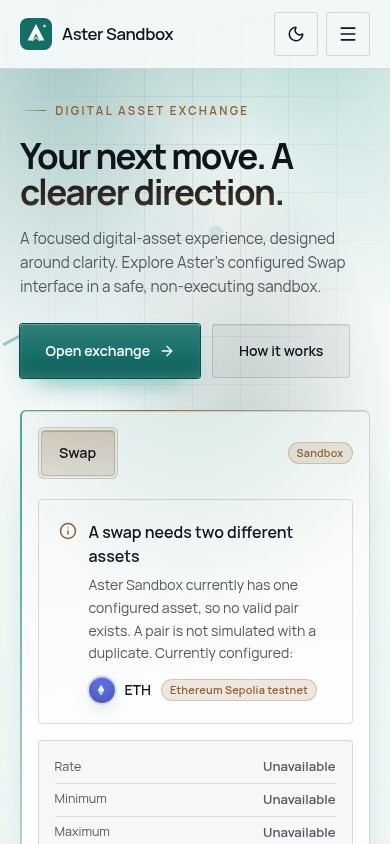
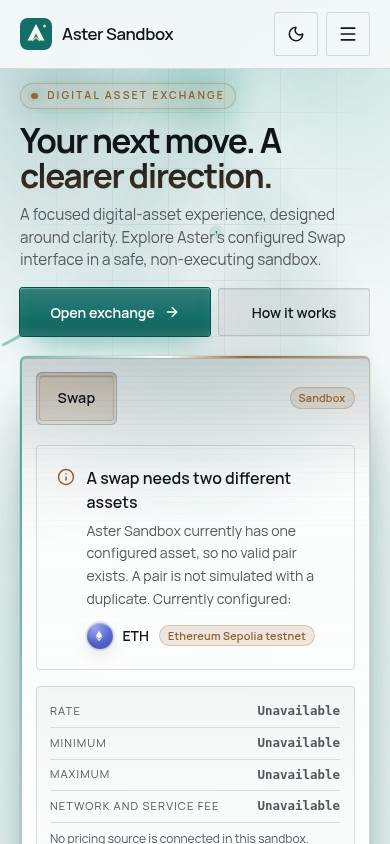
Update customer website visual assets and components
Replit-Commit-Author: Agent

Changed region(s): [[0.0, 0.0616, 1.0, 1.0]]

diff --git a/artifacts/private-label-website/src/styles/site-instrument.css b/artifacts/private-label-website/src/styles/site-instrument.css
@@ -1,0 +1,74 @@
+/* Financial-instrument layer: loaded last, refines depth, light and the widget. Opacity/transform only. */
+/* --- atmosphere: static colour fields, light travels through paths, nothing large moves --- */
+.s-orb{animation:none!important}
+.s-aurora{animation:s-breathe 16s ease-in-out infinite alternate}
+@keyframes s-breathe{from{opacity:.78}to{opacity:1}}
+.s-ambient::before,.s-ambient::after{content:"";position:absolute;top:-10%;width:34%;height:80%;pointer-events:none;background:linear-gradient(180deg,color-mix(in srgb,var(--s-glow) 22%,transparent),transparent 78%);-webkit-mask-image:linear-gradient(90deg,transparent,#000 50%,transparent);mask-image:linear-gradient(90deg,transparent,#000 50%,transparent);opacity:.55;animation:s-breathe 11s ease-in-out infinite alternate}
+.s-ambient::before{left:8%;transform:skewX(-24deg)}
+.s-ambient::after{right:6%;transform:skewX(24deg);animation-delay:-5s;opacity:.4}
+.s-grid{background-size:56px 56px;opacity:.42}
+.s-eyebrow-lit{padding:.4rem .85rem .4rem .8rem;border-radius:999px;box-shadow:inset 0 0 0 1px color-mix(in srgb,var(--s-accent) 35%,transparent),0 0 24px -8px var(--s-glow);background:color-mix(in srgb,var(--s-accent) 8%,transparent)}
+.s-eyebrow-lit::before{width:.4rem;height:.4rem;border-radius:50%;background:var(--s-accent);box-shadow:0 0 10px var(--s-glow)}
+/* --- hero stage: widget sits on a lit plinth --- */
+.s-stage{position:relative}
+.s-stage::before{content:"";position:absolute;left:6%;right:6%;bottom:-2.2rem;height:4rem;background:radial-gradient(closest-side,color-mix(in srgb,var(--s-glow) 38%,transparent),transparent);opacity:.75;pointer-events:none;z-index:-1}
+.s-stage::after{content:"";position:absolute;inset:-12% -10%;z-index:-1;pointer-events:none;background:radial-gradient(closest-side,color-mix(in srgb,var(--s-glow) 16%,transparent),transparent)}
+.s-hero-actions{display:flex;flex-wrap:wrap;gap:.75rem}
+@media(max-width:639px){
+  .s-hero{padding:.75rem 0 2rem}
+  .s-hero .s-display{margin-top:.9rem;font-size:clamp(1.85rem,8.6vw,2.3rem);line-height:1.04}
+  .s-hero-sub{margin-top:.7rem!important;font-size:.93rem;line-height:1.5}
+  .s-hero-actions{display:grid;grid-template-columns:1fr;gap:.5rem;margin-top:1rem!important}
+  .s-hero-actions:has(a+a){grid-template-columns:1.25fr 1fr}
+  .s-hero-actions .s-btn{min-height:48px!important;padding:0 1rem!important;font-size:.88rem}
+  .s-hero .s-eyebrow-lit{padding:.3rem .7rem;font-size:.66rem}
+  .s-stage::before,.s-stage::after{display:none}
+  .s-hero .s-wrap{gap:1.25rem}
+}
+/* --- widget: bezel, lit edge, glass layers --- */
+.s-glowframe{padding:1.5px;box-shadow:0 60px 120px -50px var(--s-glow),0 30px 60px -30px rgb(0 0 0/.6),0 0 0 1px color-mix(in srgb,var(--s-fg) 6%,transparent)}
+.s-glowframe::before{background:conic-gradient(from 0deg,transparent 0 42%,color-mix(in srgb,var(--s-glow) 60%,transparent) 66%,var(--s-glow) 80%,#fff 88%,var(--s-accent) 92%,transparent 100%);animation-duration:8s}
+.s-glowframe::after{content:"";position:absolute;inset:-80%;z-index:-1;background:conic-gradient(from 180deg,transparent 0 62%,color-mix(in srgb,var(--s-accent) 45%,transparent) 84%,transparent 100%);animation:s-spin 15s linear infinite reverse;opacity:.7}
+.s-glowinner{background:linear-gradient(172deg,color-mix(in srgb,var(--s-panel) 90%,var(--s-fg)) 0%,var(--s-panel) 28%,color-mix(in srgb,var(--s-panel) 88%,var(--s-bg)) 100%)}
+.s-clip{position:absolute!important;inset:0;border-radius:inherit;overflow:hidden;pointer-events:none}
+.s-clip::before{content:"";position:absolute;inset:0;background:linear-gradient(180deg,color-mix(in srgb,var(--s-fg) 9%,transparent),transparent 18%);}
+.s-clip::after{content:"";position:absolute;inset:0;background-image:linear-gradient(color-mix(in srgb,var(--s-fg) 3.5%,transparent) 1px,transparent 1px);background-size:100% 6px;opacity:.5;-webkit-mask-image:linear-gradient(180deg,#000,transparent 70%);mask-image:linear-gradient(180deg,#000,transparent 70%)}
+.s-spec{position:absolute;left:0;top:0;width:420px;height:420px;margin:-210px 0 0 -210px;border-radius:50%;background:radial-gradient(closest-side,color-mix(in srgb,var(--s-glow) 26%,transparent),transparent);opacity:var(--so,0);transform:translate3d(var(--sx,50%),var(--sy,0),0);transition:opacity .4s;will-change:transform}
+.s-sheen{position:absolute;top:-20%;bottom:-20%;left:0;width:38%;background:linear-gradient(100deg,transparent,color-mix(in srgb,var(--s-fg) 9%,transparent),transparent);transform:translateX(-160%) skewX(-18deg);animation:s-sheen 10s cubic-bezier(.4,0,.2,1) infinite}
+@keyframes s-sheen{0%,62%{transform:translateX(-160%) skewX(-18deg)}100%{transform:translateX(420%) skewX(-18deg)}}
+.s-tabs{padding:.28rem;box-shadow:inset 0 2px 6px -2px rgb(0 0 0/.4),inset 0 0 0 1px var(--s-line)}
+.s-tab{letter-spacing:.01em}
+.s-lab{font-size:.68rem;font-weight:650;letter-spacing:.14em;text-transform:uppercase;color:var(--s-muted)}
+.s-side{position:relative;padding:1rem 1.15rem;background:linear-gradient(180deg,color-mix(in srgb,var(--s-bg) 78%,transparent),color-mix(in srgb,var(--s-bg) 40%,transparent));box-shadow:inset 0 3px 10px -4px rgb(0 0 0/.5),inset 0 -1px 0 color-mix(in srgb,var(--s-fg) 8%,transparent)}
+.s-side::before{content:"";position:absolute;left:-1px;top:18%;bottom:18%;width:2px;border-radius:2px;background:var(--s-accent);opacity:0;transform:scaleY(.4);transition:opacity .3s,transform .3s}
+.s-side:focus-within::before{opacity:1;transform:none;box-shadow:0 0 12px var(--s-glow)}
+.s-side-out{background:linear-gradient(180deg,color-mix(in srgb,var(--s-accent) 7%,var(--s-bg)),color-mix(in srgb,var(--s-bg) 45%,transparent))}
+.s-amount{font-size:clamp(2.15rem,7.4vw,3rem);font-weight:560;letter-spacing:-.04em;font-variant-numeric:tabular-nums slashed-zero;line-height:1.1}
+.s-amount::placeholder{color:color-mix(in srgb,var(--s-fg) 55%,transparent);font-weight:500}
+.s-pick{min-height:56px;background:linear-gradient(180deg,color-mix(in srgb,var(--s-fg) 11%,var(--s-panel)),color-mix(in srgb,var(--s-fg) 3%,var(--s-panel)));box-shadow:inset 0 1px 0 color-mix(in srgb,var(--s-fg) 18%,transparent),0 6px 16px -8px rgb(0 0 0/.6)}
+.s-coin{overflow:hidden}
+.s-coin::after{content:"";position:absolute;inset:0;border-radius:50%;background:radial-gradient(circle at 30% 20%,rgb(255 255 255/.38),transparent 55%);pointer-events:none}
+.s-swapbtn{width:52px;height:52px;border-radius:50%;box-shadow:0 0 0 6px var(--s-panel),0 0 0 7px var(--s-line),0 12px 28px -8px var(--s-glow)}
+.s-ratebox{border:0!important;position:relative;padding:.9rem 1.1rem!important;border-radius:var(--s-r2);background:linear-gradient(180deg,color-mix(in srgb,var(--s-fg) 3%,transparent),transparent);box-shadow:inset 0 0 0 1px var(--s-line)}
+.s-ratebox dt{font-size:.7rem;letter-spacing:.1em;text-transform:uppercase}
+.s-ratebox dd{font-family:ui-monospace,'SF Mono',Menlo,monospace;font-size:.78rem;color:var(--s-muted)}
+.s-cta-xl{min-height:58px;font-size:1rem;letter-spacing:.01em;border-radius:calc(var(--s-r1) + 2px)}
+.s-cta-xl:not(:disabled)::before{content:"";position:absolute;inset:0;background:radial-gradient(60% 140% at 50% 120%,color-mix(in srgb,var(--s-glow) 55%,transparent),transparent);opacity:.8}
+@media(max-width:767px){
+  .s-sheen,.s-glowframe::after,.s-spec{display:none}
+  .s-glowframe::before{animation-duration:16s}
+  .s-side{padding:.8rem .95rem}
+  .s-pick{min-height:52px}
+  .s-ratebox{padding:.65rem .9rem!important}
+}
+/* --- premium card illumination: gradient hairline edge + inner light --- */
+.s-lit{box-shadow:inset 0 1px 0 color-mix(in srgb,var(--s-fg) 14%,transparent),0 30px 60px -40px var(--s-glow),0 2px 0 -1px rgb(0 0 0/.2);box-shadow:inset 0 1px 0 color-mix(in srgb,var(--s-fg) 14%,transparent),0 30px 60px -40px var(--s-glow)}
+.s-lit::after{content:"";position:absolute;inset:0;border-radius:inherit;padding:1px;pointer-events:none;background:linear-gradient(145deg,color-mix(in srgb,var(--s-accent) 60%,transparent),transparent 38%,transparent 62%,color-mix(in srgb,var(--s-glow) 35%,transparent));-webkit-mask:linear-gradient(#000 0 0) content-box,linear-gradient(#000 0 0);-webkit-mask-composite:xor;mask:linear-gradient(#000 0 0) content-box exclude,linear-gradient(#000 0 0);opacity:.55;transition:opacity .4s}
+.s-lit:hover::after{opacity:1}
+.s-lit:hover{box-shadow:inset 0 1px 0 color-mix(in srgb,var(--s-fg) 18%,transparent),0 40px 70px -36px var(--s-glow)}
+.s-section::before{content:"";display:block;height:1px;max-width:48rem;margin:calc(-1 * clamp(3rem,7vw,6rem)) auto clamp(3rem,7vw,6rem);background:linear-gradient(90deg,transparent,color-mix(in srgb,var(--s-accent) 45%,transparent),transparent)}
+.s-section:first-of-type::before{display:none}
+.s-cta-panel{box-shadow:inset 0 1px 0 color-mix(in srgb,var(--s-fg) 16%,transparent),inset 0 0 0 1px var(--s-line),0 60px 120px -60px var(--s-glow)}
+@media(prefers-reduced-motion:reduce){
+  .s-sheen,.s-spec,.s-ambient::before,.s-ambient::after{display:none}
+}

diff --git a/artifacts/private-label-website/src/components/exchange-widget.tsx b/artifacts/private-label-website/src/components/exchange-widget.tsx
@@ -1,4 +1,4 @@
-import { useMemo, useState } from 'react';
+import { useEffect, useMemo, useRef, useState } from 'react';
 import { ArrowDownUp, ChevronDown, Info, ShieldCheck } from 'lucide-react';
 import type { AssetNetwork, PublicSite } from '@workspace/api-client-react';
 import type { Caps, ExchangeTab } from '@/lib/capabilities';
@@ -11,8 +11,8 @@ const NOQ = 'No pricing source is connected in this sandbox.';
 function Side({ label, asset, onPick, value, onValue, readOnly, fiat, error, id, assetsAvailable }: { label: string; asset: AssetNetwork | null; onPick?: () => void; value: string; onValue?: (v: string) => void; readOnly?: boolean; fiat?: boolean; error?: string | null; id: string; assetsAvailable: boolean }) {
   return (
     <div>
-      <div className="s-side" style={error ? { borderColor: '#d9485f' } : undefined}>
-        <div className="flex items-center justify-between"><label htmlFor={`amt-${id}`} className="s-muted text-xs font-medium">{label}</label></div>
+      <div className={`s-side${id === 'bottom' ? ' s-side-out' : ''}`} style={error ? { borderColor: '#d9485f' } : undefined}>
+        <div className="flex items-center justify-between"><label htmlFor={`amt-${id}`} className="s-lab">{label}</label></div>
         <div className="mt-1.5 flex items-center gap-3">
           <input id={`amt-${id}`} className="s-amount" inputMode="decimal" autoComplete="off" placeholder="0.00" value={value} readOnly={readOnly} aria-invalid={!!error} aria-describedby={error ? `err-${id}` : undefined} onChange={(e) => { const v = e.target.value.replace(',', '.'); if (AMOUNT.test(v)) onValue?.(v); }} data-testid={`input-amount-${id}`} />
           {fiat ? (
@@ -51,9 +51,25 @@ export function ExchangeWidget({ site, caps }: { site: PublicSite; caps: Caps })
   const noAssets = assets.length === 0;
   const amountError = touched ? (amount === '' || Number(amount) <= 0 ? 'Enter an amount greater than zero.' : null) : null;
   const reset = () => { setStatus(null); };
+  const frame = useRef<HTMLDivElement>(null);
+  useEffect(() => {
+    const el = frame.current;
+    const motion = window.matchMedia('(prefers-reduced-motion: reduce)');
+    if (!el || motion.matches || !window.matchMedia('(hover: hover) and (pointer: fine)').matches) return;
+    let raf = 0, px = 0, py = 0;
+    const move = (e: PointerEvent) => {
+      if (window.innerWidth < 1024 || motion.matches) return;
+      const r = el.getBoundingClientRect(); px = e.clientX - r.left; py = e.clientY - r.top;
+      if (!raf) raf = requestAnimationFrame(() => { raf = 0; el.style.setProperty('--sx', `${px}px`); el.style.setProperty('--sy', `${py}px`); el.style.setProperty('--so', '1'); });
+    };
+    const leave = () => el.style.setProperty('--so', '0');
+    el.addEventListener('pointermove', move, { passive: true });
+    el.addEventListener('pointerleave', leave);
+    return () => { el.removeEventListener('pointermove', move); el.removeEventListener('pointerleave', leave); if (raf) cancelAnimationFrame(raf); };
+  }, []);
 
   const shell = (inner: React.ReactNode) => (
-    <div className="s-glowframe" data-testid="widget-exchange"><div className="s-glowinner p-4 sm:p-6">{inner}</div></div>
+    <div ref={frame} className="s-glowframe" data-testid="widget-exchange"><div className="s-glowinner p-3.5 sm:p-7"><div className="s-clip" aria-hidden="true"><span className="s-spec" /><span className="s-sheen" /></div>{inner}</div></div>
   );
   if (caps.exchange === 'empty') return shell(
     <div className="py-6 text-center" data-testid="state-exchange-empty">
@@ -113,7 +129,7 @@ export function ExchangeWidget({ site, caps }: { site: PublicSite; caps: Caps })
           <p className="s-muted pt-2 text-xs">{NOQ} Nothing here is an estimate.</p>
         </dl>
       )}
-      <button type="submit" className="s-btn s-btn-primary mt-5 w-full" style={{ minHeight: 52 }} disabled={noAssets || insufficient} data-testid="button-exchange-cta">Preview order (sandbox)</button>
+      <button type="submit" className="s-btn s-btn-primary s-cta-xl mt-5 w-full" disabled={noAssets || insufficient} data-testid="button-exchange-cta">Preview order (sandbox)</button>
       <div role="status" aria-live="polite" className="mt-3 min-h-[1.25rem]">
         {status && <p className="flex items-start gap-2 text-xs leading-relaxed" data-testid="status-sandbox"><ShieldCheck size={15} className="mt-0.5 shrink-0" style={{ color: 'var(--s-accent-ink)' }} aria-hidden="true" />{status}</p>}
       </div>

diff --git a/artifacts/private-label-website/src/components/hero.tsx b/artifacts/private-label-website/src/components/hero.tsx
@@ -22,16 +22,16 @@ export function Hero({ site, caps }: { site: PublicSite; caps: Caps }) {
     <section className="s-hero" data-testid="section-hero">
       <div className="s-wrap grid items-center gap-8 md:gap-12 lg:grid-cols-[1fr_1.02fr] lg:gap-16">
         <div className="s-rise">
-          <span className="s-eyebrow" data-testid="text-hero-eyebrow">{eyebrow}</span>
+          <span className="s-eyebrow s-eyebrow-lit" data-testid="text-hero-eyebrow">{eyebrow}</span>
           <h1 className="s-display s-display-grad mt-5 md:mt-7" data-testid="text-hero-title">{ws.heroTitle}</h1>
           {ws.heroSubtitle && <p className="s-muted s-hero-sub mt-4 md:mt-7" data-testid="text-hero-subtitle">{ws.heroSubtitle}</p>}
-          <div className="mt-6 flex flex-wrap gap-3 md:mt-9">
+          <div className="s-hero-actions mt-5 md:mt-9">
             <a href={href(cta.id)} onClick={go(cta.id)} className="s-btn s-btn-primary" style={{ minHeight: 54, padding: "0 1.6rem" }} data-testid="link-hero-cta">{cta.label}<ArrowRight size={16} /></a>
             {second && <a href={href(second.id)} onClick={go(second.id)} className="s-btn s-btn-ghost" style={{ minHeight: 54, padding: "0 1.6rem" }} data-testid="link-hero-secondary">{second.label}</a>}
           </div>
           {trust.length > 0 && <ul className="s-facts mt-7 md:mt-10" aria-label="Facts" data-testid="list-trust">{trust.map((t) => <li key={t}>{t}</li>)}</ul>}
         </div>
-        <div id={caps.exchange !== 'off' ? 'exchange' : undefined} className="s-rise mx-auto w-full max-w-[30rem] lg:max-w-none" style={{ animationDelay: '.12s' }}>
+        <div id={caps.exchange !== 'off' ? 'exchange' : undefined} className="s-rise s-stage mx-auto w-full max-w-[30rem] lg:max-w-none" style={{ animationDelay: '.12s' }}>
           {caps.exchange !== 'off' ? <ExchangeWidget site={site} caps={caps} />
             : caps.payments ? <PaymentMock site={site} compact />
             : (

diff --git a/artifacts/private-label-website/src/index.css b/artifacts/private-label-website/src/index.css
@@ -5,6 +5,7 @@
 @import './styles/site-widget.css';
 @import './styles/site-sections.css';
 @import './styles/site-showcase.css';
+@import './styles/site-instrument.css';
 @plugin "@tailwindcss/typography";
 
 @custom-variant dark (&:is(.dark *));

diff --git a/docs/customer-website.md b/docs/customer-website.md
@@ -41,7 +41,14 @@ count animation and decorative motion. Mobile keeps both hero actions on one row
 and brings the widget into view earlier.
 
 Customer styles are divided into base, atmosphere, widget, sections and showcase
-stylesheets. Capability logic, routing, theme preference behavior, backend,
+stylesheets, with a final instrument layer for deeper widget surfaces, traveling
+edge illumination, desktop pointer highlights and recessed input panels. Large
+atmospheric orbs stay static; mobile disables the widget sheen and pointer light.
+The tighter mobile hero places Nexa's widget around 378px from the top at 390px
+width, compared with around 433px before this refinement. Additional checks at
+320px and 768px found no horizontal overflow, and real pointer clicks confirmed
+that the picker and non-executing preview action still work.
+Capability logic, routing, theme preference behavior, backend,
 shared contracts and admin sources remain unchanged.
 
 Five approval screenshots are in `screenshots/customer-visual-upgrade/`:
@@ -103,13 +110,13 @@ Final production build (not published):
 
 | Asset | Minified | Gzip |
 |---|---:|---:|
-| Initial JavaScript | 380.13 kB | 122.39 kB |
+| Initial JavaScript | 381.05 kB | 122.65 kB |
 | Lazy below-fold JavaScript | 17.19 kB | 6.23 kB |
-| CSS | 130.01 kB | 21.90 kB |
+| CSS | 141.77 kB | 23.63 kB |
 | HTML | 1.21 kB | 0.47 kB |
 
-Initial JavaScript + CSS: **144.29 kB gzip**; all JavaScript + CSS: **150.52 kB gzip**.
-Build took 3.04 seconds in the development container. These exclude font responses,
+Initial JavaScript + CSS: **146.28 kB gzip**; all JavaScript + CSS: **152.51 kB gzip**.
+Build took 3.56 seconds in the development container. These exclude font responses,
 transport headers and logos. Only the configured tenant font is loaded; SVG marks
 and coin glyphs do not require large media or additional coin-image requests.
 

diff --git a/.agents/memory/customer-visual-approval.md b/.agents/memory/customer-visual-approval.md
@@ -4,6 +4,8 @@ description: The customer-facing design must be approved before any new backend 
 ---
 Wait for the user's explicit visual approval of the shared customer website before starting any new backend phase. Visual approval alone does not request or authorize that next phase.
 
-**Why:** The user rejected the earlier sandbox/SaaS-template appearance and requested an extremely premium crypto/fintech design with five specific tenant/theme screenshots for approval.
+The customer website must look significantly premium and visually impressive, with the exchange widget as the main centerpiece. Prioritize the mobile hero/widget, layered depth, animated lighting, subtle glow and illuminated cards. Keep motion smooth/lightweight and preserve multi-tenant branding.
+
+**Why:** The user rejected both the initial sandbox/SaaS-template appearance and the first premium refinement as insufficiently impressive. They repeated the requirement for a stronger fintech/crypto atmosphere and mobile/widget emphasis.
 
 **How to apply:** Treat backend architecture, entitlements, plans, isolation, admin applications and non-executing sandbox behavior as fixed during visual iterations. Honest sandbox notices remain necessary, but the financial engine being deferred is not a reason to use a development-template visual design.
